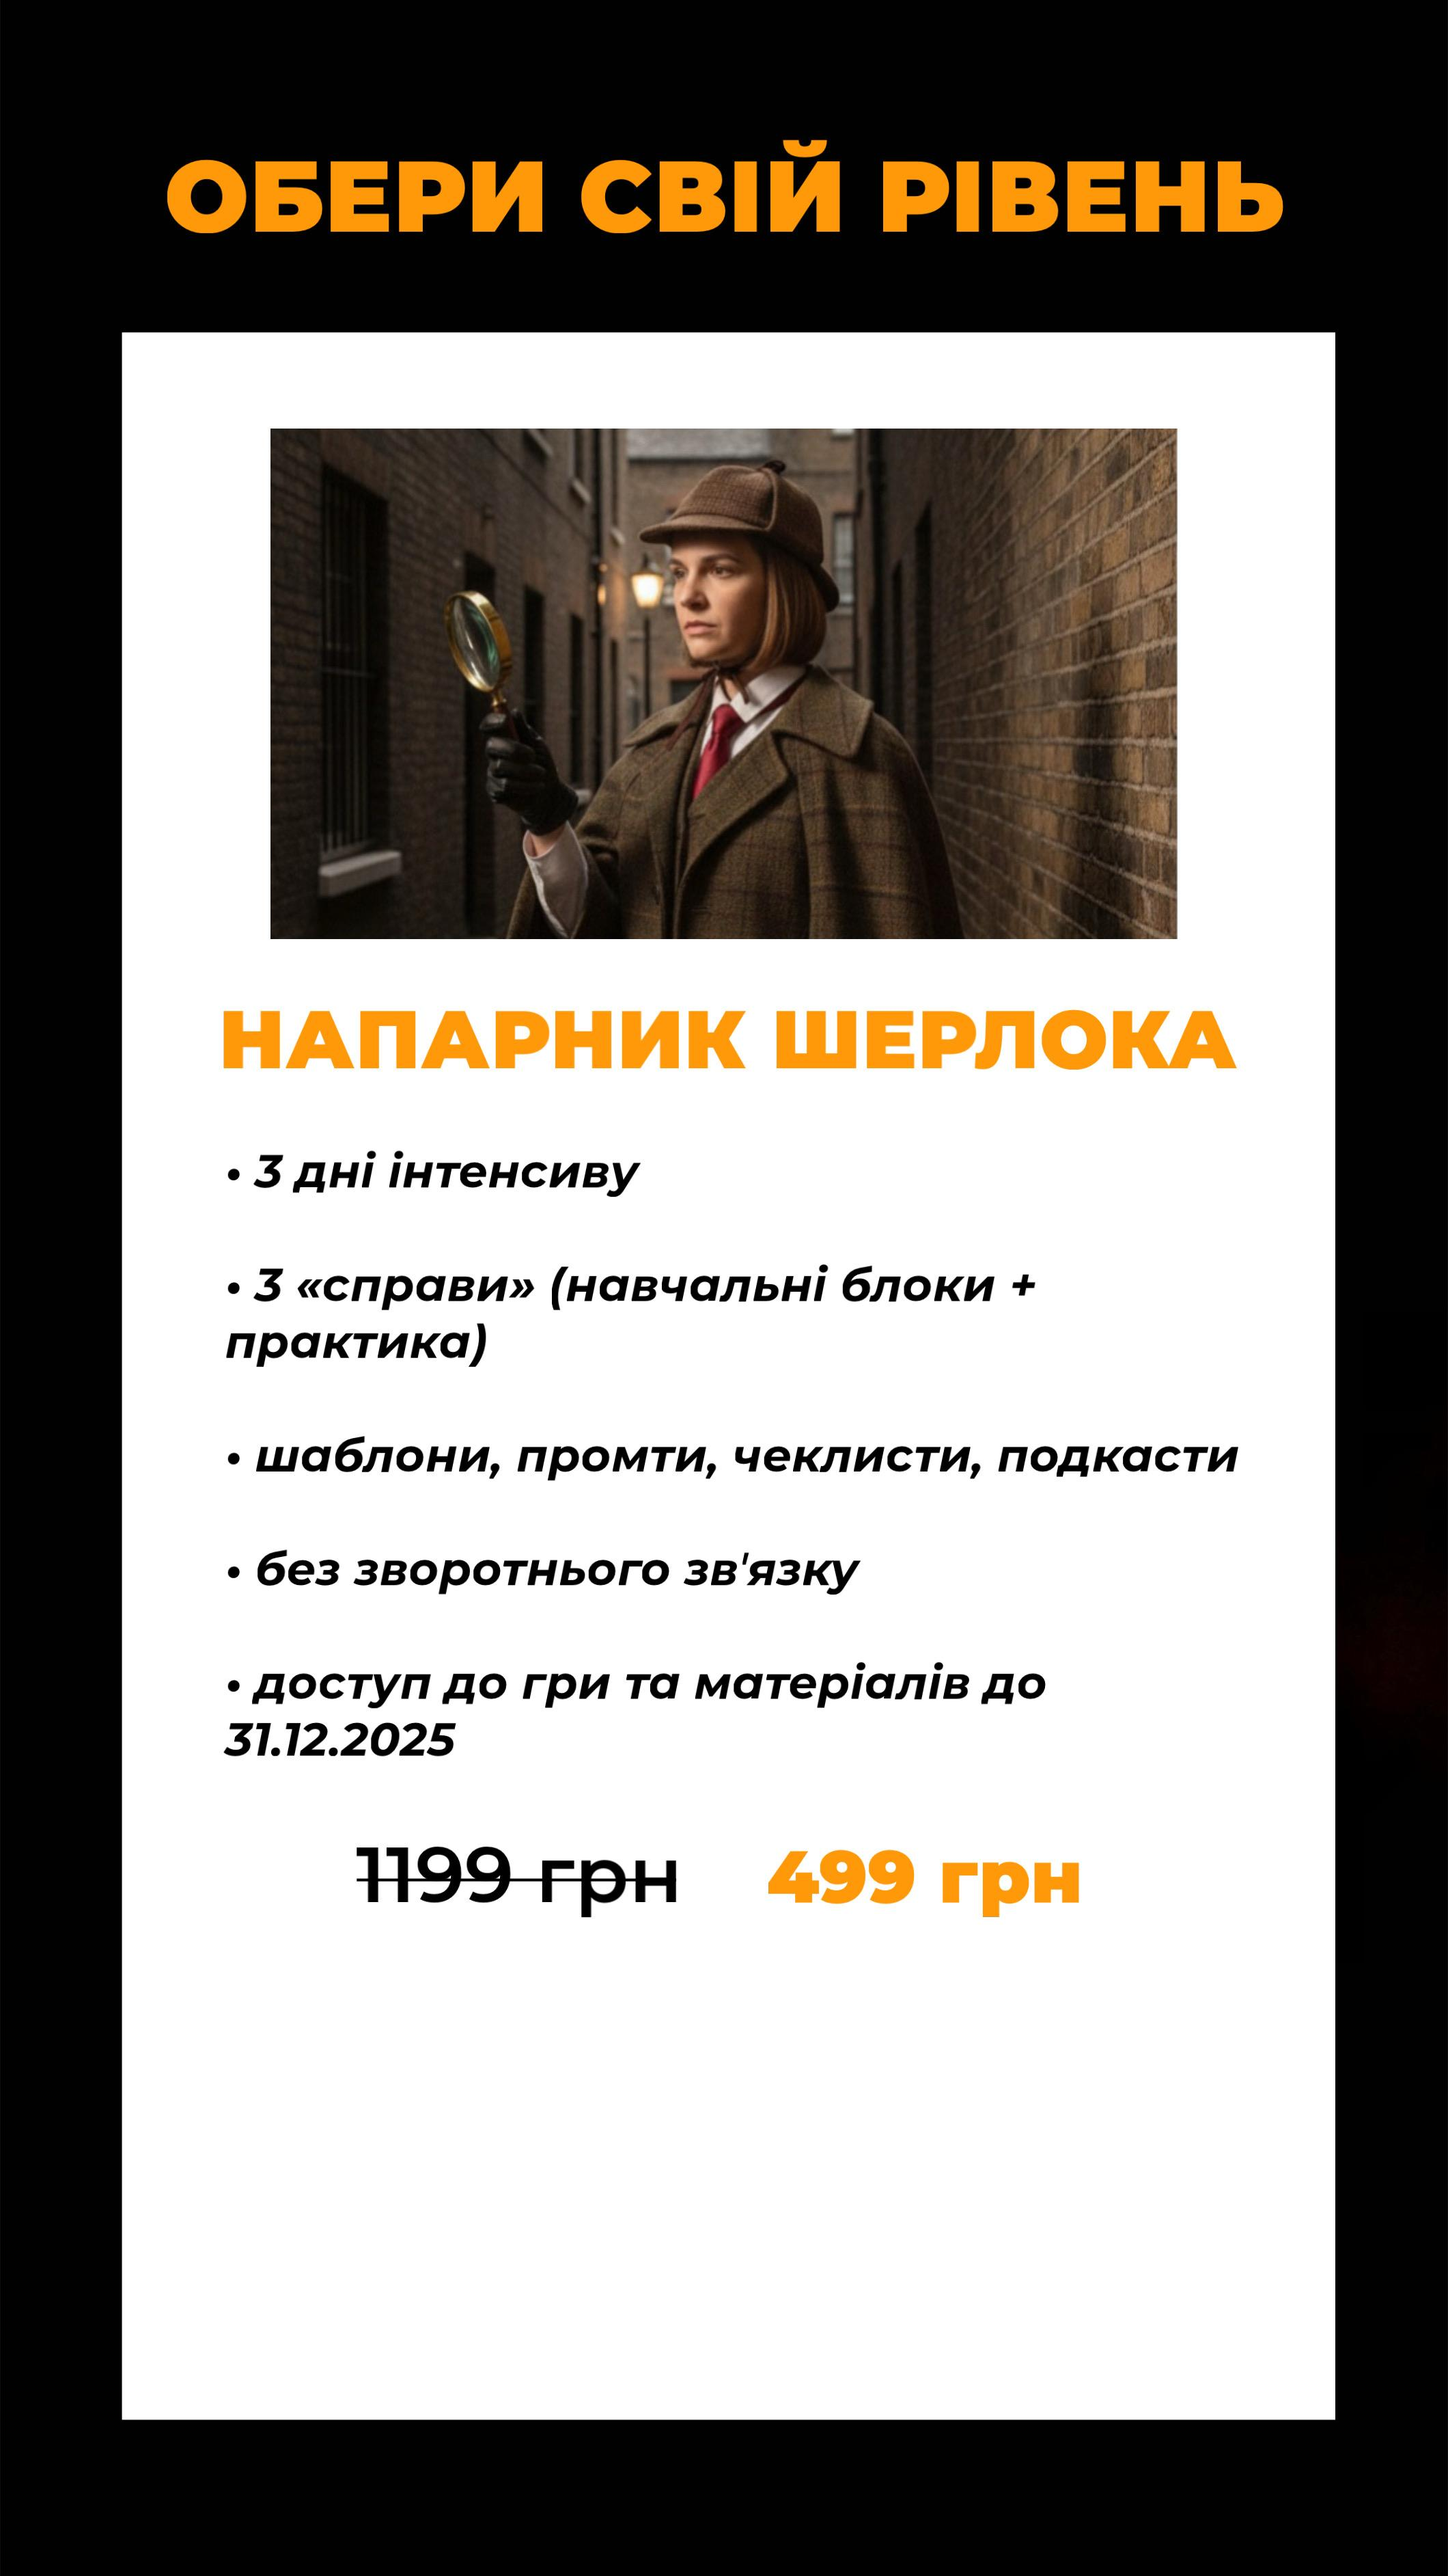
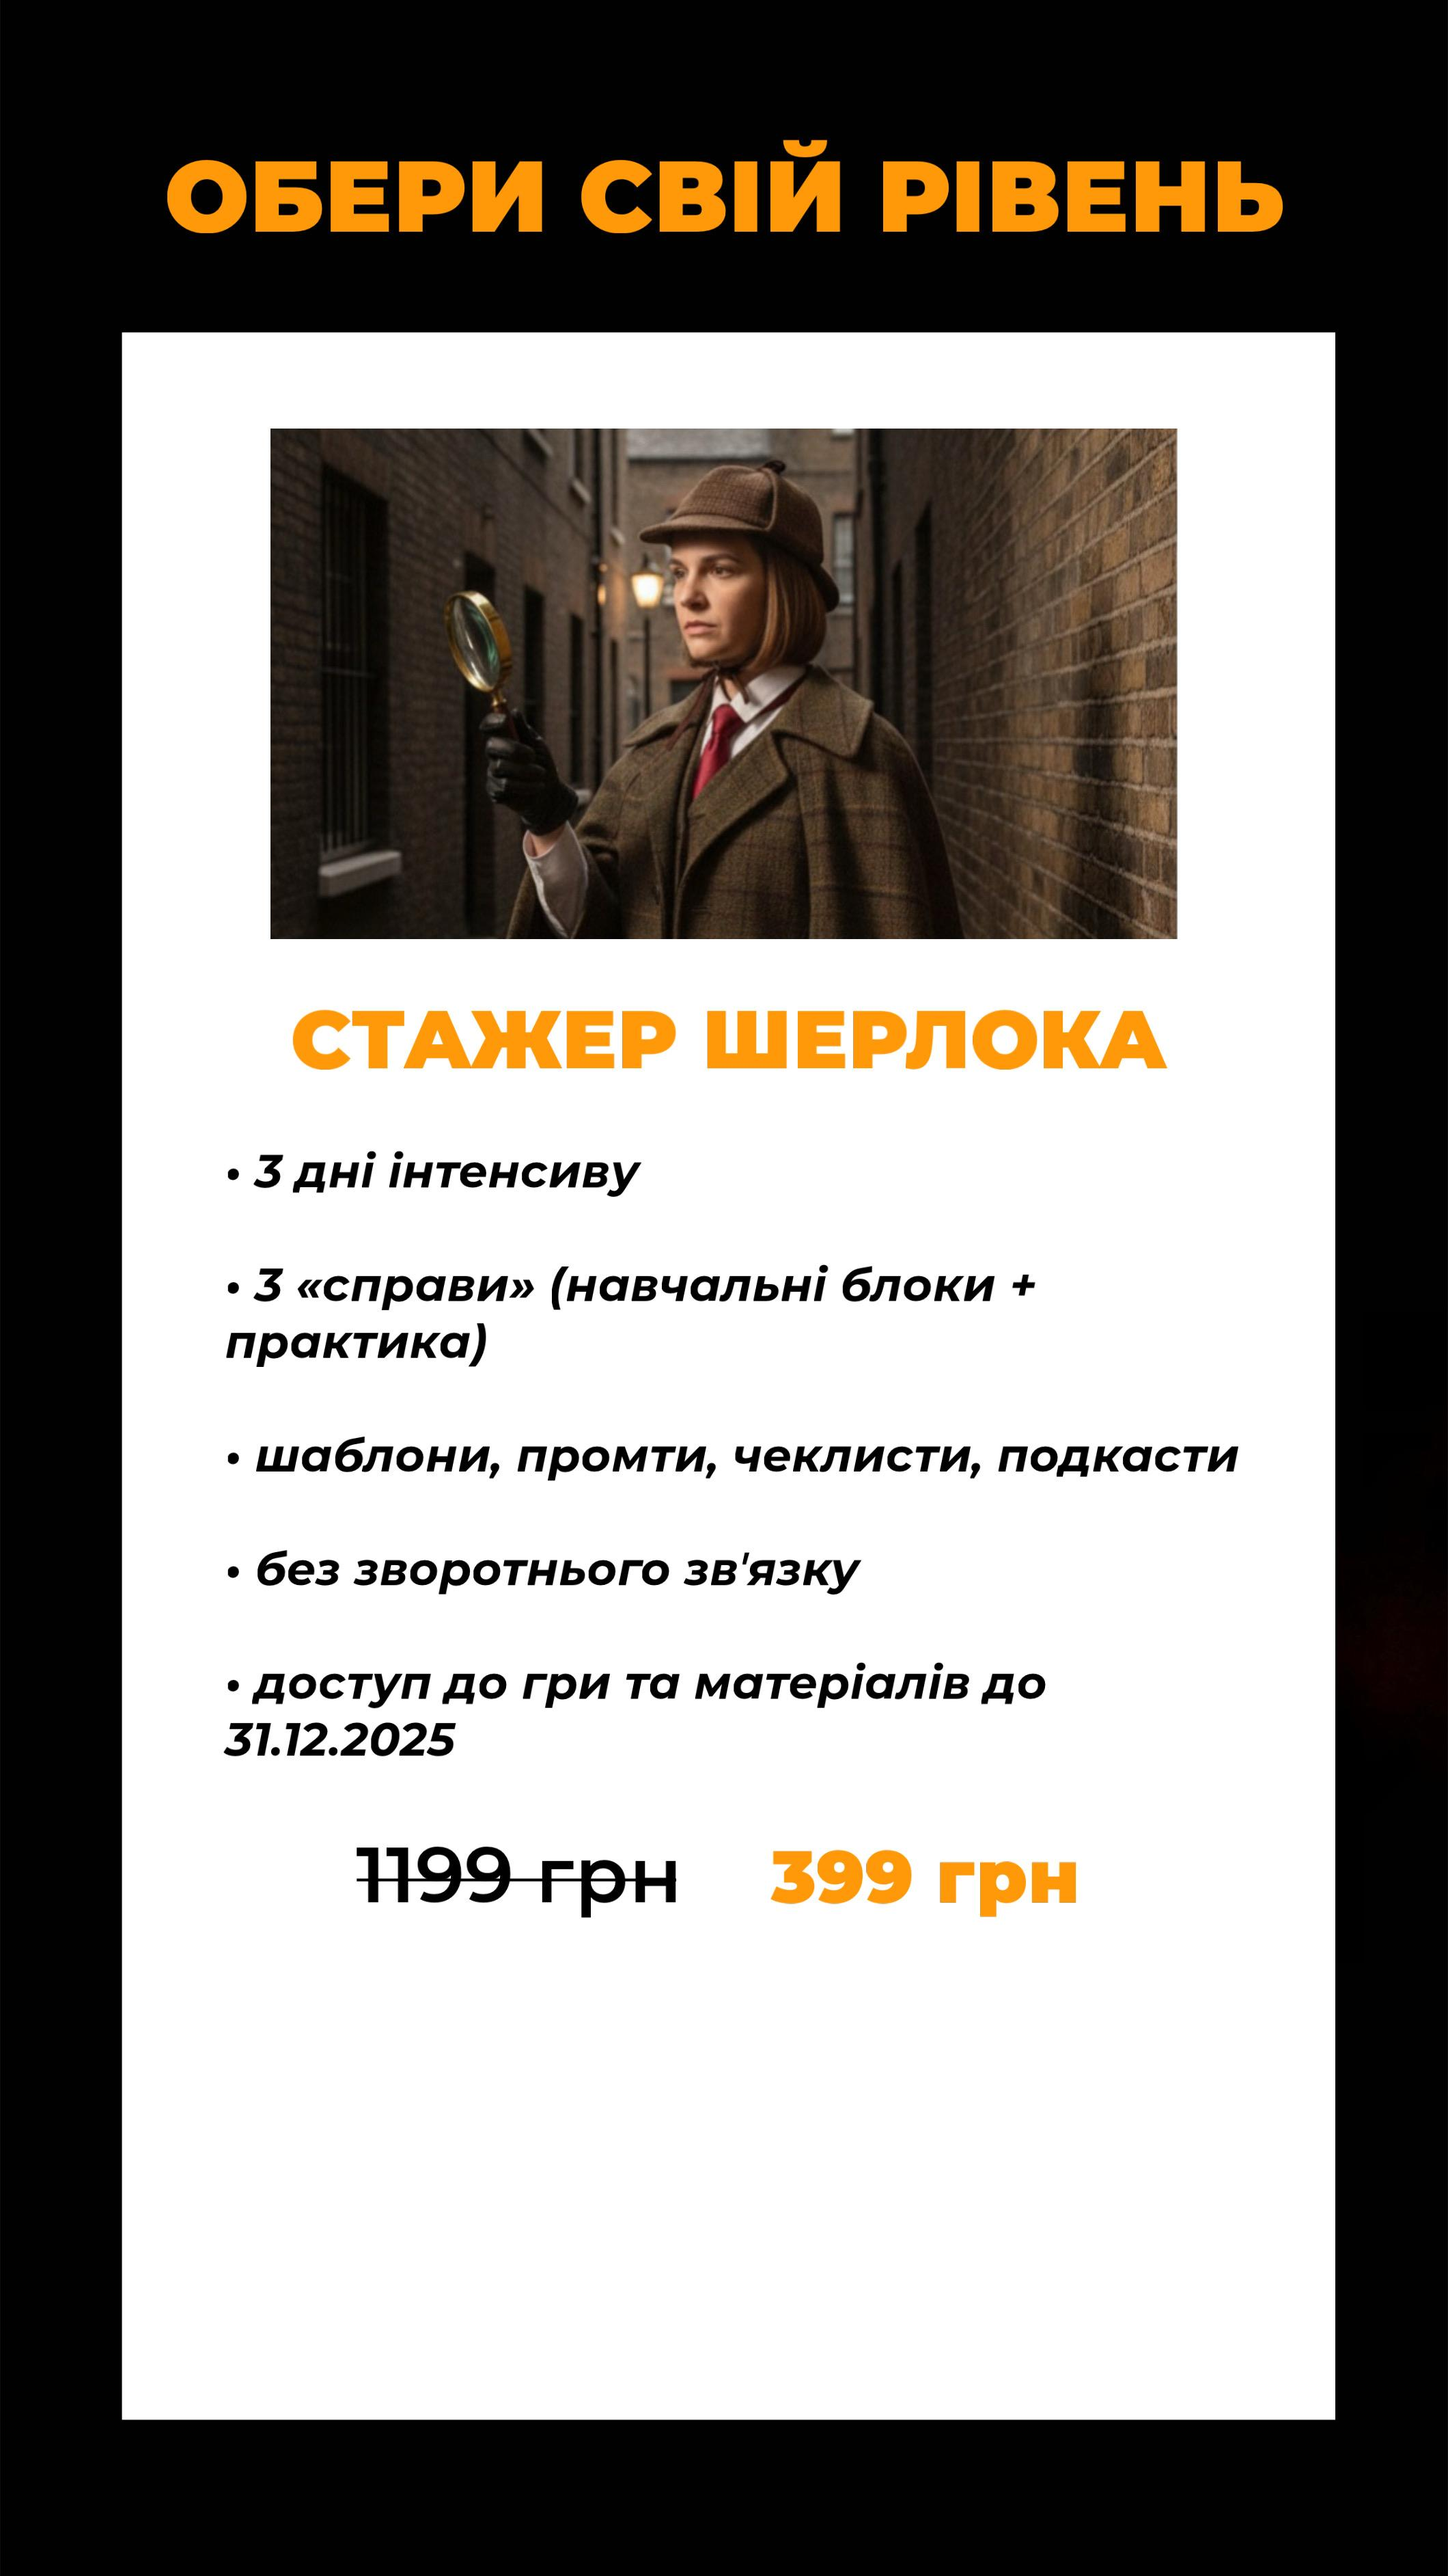
add all img

Changed region(s): [[0.1557, 0.3725, 0.8717, 0.4346], [0.5292, 0.714, 0.7472, 0.745]]

diff --git a/index.html b/index.html
@@ -23,7 +23,7 @@
         <img
           class="img-landing"
           src="/img/IMG_1.jpg"
-          width="393px"
+          width="100%"
           alt="img intensiv"
         />
         <button class="button-img">натисни мене !</button>
@@ -34,7 +34,7 @@
         <img
           class="img-main"
           src="/img/IMG_22.jpg"
-          width="393px"
+          width="100%"
           alt="img-landing"
         />
          
@@ -43,7 +43,7 @@
         <img
           class="img-main"
           src="/img/IMG_33.jpg"
-          width="393px"
+          width="100%"
           alt="img-landing"
         />
         <button class="button-3">натисни мене !</button>
@@ -52,7 +52,7 @@
         <img
           class="img-main"
           src="/img/IMG_4.jpg"
-          width="393px"
+          width="100%"
           alt="img-landing"
         />
       </div>
@@ -60,7 +60,7 @@
         <img
           class="img-main"
           src="/img/IMG_5.jpg"
-          width="393px"
+          width="100%"
           alt="img-landing"
         />
       </div>
@@ -68,7 +68,7 @@
         <img
           class="img-main"
           src="/img/IMG_6.jpg"
-          width="393px"
+          width="100%"
           alt="img-landing"
         />
       </div>
@@ -76,7 +76,7 @@
         <img
           class="img-main"
           src="/img/IMG_7.jpg"
-          width="393px"
+          width="100%"
           alt="img-landing"
         />
       </div>
@@ -86,10 +86,25 @@
         <img
           class="img-main"
           src="/img/IMG_8.jpg"
-          width="393px"
+          width="100%"
           alt="img-landing"
         />
       </div>
+        <div class="img-container">
+        <img
+          class="img-main"
+          src="/img/IMG_9.jpg"
+          width="100%"
+          alt="img-landing"
+        />
+      </div>
+      <div class="img-container">
+        <img
+          class="img-main"
+          src="/img/IMG_10.jpg"
+          width="100%"
+          alt="img-landing"
+        />
     </footer>
   </body>
 </html>

diff --git a/styles.css b/styles.css
@@ -43,7 +43,7 @@ a {
 }
 .img-main {
   display: block;
-  margin: 0;
+  margin: 0 auto;
   /* object-fit: cover;
   text-align: center; */
 }
